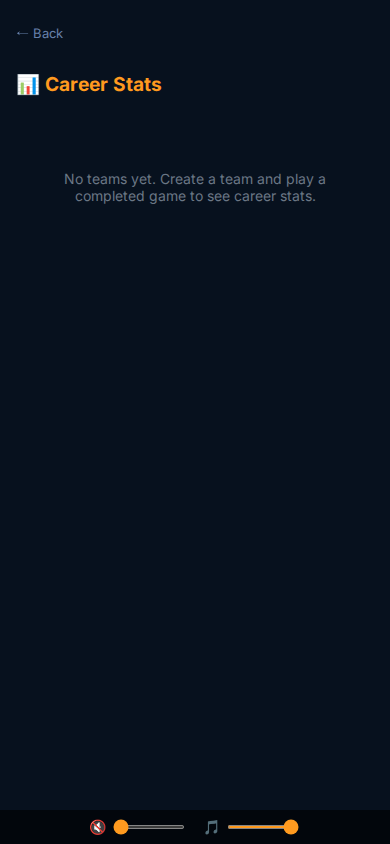
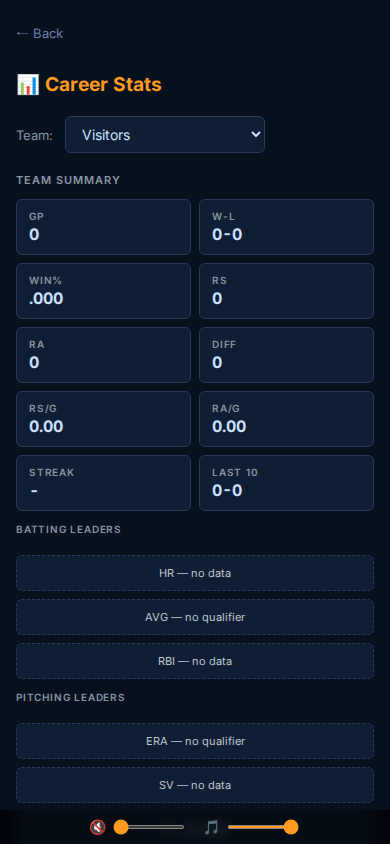
fix: show demo teams and career stats data in screenshots

diff --git a/e2e/tests/take-screenshots.spec.ts b/e2e/tests/take-screenshots.spec.ts
@@ -6,11 +6,16 @@
  * Output is written to docs/screenshots/.
  */
 
-import { type BrowserContext, devices, type Page, test } from "@playwright/test";
+import { expect, type BrowserContext, devices, type Page, test } from "@playwright/test";
 import * as fs from "fs";
 import * as path from "path";
 
-import { resetAppState, startGameViaPlayBall, waitForLogLines } from "../utils/helpers";
+import {
+  importHistoryFixture,
+  resetAppState,
+  startGameViaPlayBall,
+  waitForLogLines,
+} from "../utils/helpers";
 
 // Output directory for screenshots
 const SCREENSHOTS_DIR = path.join(process.cwd(), "docs", "screenshots");
@@ -74,6 +79,15 @@ test.describe("Documentation Screenshots", () => {
           document.head.appendChild(style);
         });
       });
+      // Mute announcement volume on every page load so the scheduler doesn't
+      // wait up to 8 s for Web Speech API announcements between pitches.
+      await ctx.addInitScript(() => {
+        try {
+          localStorage.setItem("announcementVolume", "0");
+        } catch {
+          // localStorage may be unavailable in some security contexts.
+        }
+      });
       const pg = await ctx.newPage();
       contexts.set(name, ctx);
       pages.set(name, pg);
@@ -96,6 +110,17 @@ test.describe("Documentation Screenshots", () => {
     }
   }
 
+  // Navigate to "/" without suppressing demo-team seeding so screenshots
+  // that need demo teams (New Game dialog, Manage Teams) see them populated.
+  // Audio is already muted by the context-level init script in beforeEach.
+  async function goHomeForDocs(page: Page): Promise<void> {
+    await page.goto("/", { waitUntil: "domcontentloaded" });
+    await page.waitForSelector("[data-testid='home-screen']", {
+      state: "visible",
+      timeout: 30_000,
+    });
+  }
+
   // ── 1. Home Screen ──────────────────────────────────────────────────────────
   test("1. Home screen", async () => {
     await forBothViewports(async (page, viewport) => {
@@ -111,11 +136,20 @@ test.describe("Documentation Screenshots", () => {
   // ── 2. New Game Dialog ──────────────────────────────────────────────────────
   test("2. New Game dialog", async () => {
     await forBothViewports(async (page, viewport) => {
-      await resetAppState(page);
+      // Use goHomeForDocs (no demo-seed suppression) so the team selects show
+      // the seeded Riverside Rockets / Lakewood Legends demo teams.
+      await goHomeForDocs(page);
       await page.getByTestId("home-new-game-button").click();
       await page.waitForSelector("[data-testid='exhibition-setup-page']", {
         state: "visible",
         timeout: 15_000,
+      });
+      // Wait for demo teams to seed and auto-select in the custom-team selects.
+      await page
+        .getByTestId("new-game-custom-away-team-select")
+        .waitFor({ state: "visible", timeout: 20_000 });
+      await expect(page.getByTestId("new-game-custom-away-team-select")).not.toHaveValue("", {
+        timeout: 10_000,
       });
       await captureScreenshot(page, `new-game-${viewport}.png`);
     });
@@ -164,7 +198,10 @@ test.describe("Documentation Screenshots", () => {
   // ── 6. Career Stats page ────────────────────────────────────────────────────
   test("6. Career Stats page", async () => {
     await forBothViewports(async (page, viewport) => {
-      await resetAppState(page);
+      // Start a game so the saves modal is accessible, then import the history
+      // fixture to populate leaderboards and stat tables.
+      await startGameViaPlayBall(page, { seed: "carstats" });
+      await importHistoryFixture(page, "career-stats-history.json");
       await page.goto("/stats", { waitUntil: "domcontentloaded" });
       await page.waitForSelector("[data-testid='career-stats-page']", { state: "visible" });
       await captureScreenshot(page, `career-stats-${viewport}.png`);
@@ -174,9 +211,32 @@ test.describe("Documentation Screenshots", () => {
   // ── 7a. Manage Teams page ───────────────────────────────────────────────────
   test("7a. Manage Teams page", async () => {
     await forBothViewports(async (page, viewport) => {
-      await resetAppState(page);
+      // Use goHomeForDocs (no demo-seed suppression) so the team list shows the
+      // seeded Riverside Rockets / Lakewood Legends demo teams.
+      await goHomeForDocs(page);
       await page.goto("/teams", { waitUntil: "domcontentloaded" });
       await page.waitForSelector("[data-testid='manage-teams-screen']", { state: "visible" });
+      // Wait for demo teams to finish seeding and appear in the list.
+      // useCustomTeams fetches once on mount — if seeding hasn't completed yet
+      // when the initial DB query runs, the list will appear empty.  In that
+      // case, wait briefly for seeding to finish and reload so the hook
+      // re-runs its fetch with the freshly-inserted teams.
+      // NOTE: The correct testid is "custom-team-list-item" (see TeamListItem.tsx).
+      const teamItemLocator = page.locator("[data-testid='custom-team-list-item']");
+      const found = await teamItemLocator
+        .first()
+        .waitFor({ state: "visible", timeout: 8_000 })
+        .then(() => true)
+        .catch(() => false);
+      if (!found) {
+        // Seeding was still in flight — reload to re-trigger the DB fetch.
+        await page.reload({ waitUntil: "domcontentloaded" });
+        await page.waitForSelector("[data-testid='manage-teams-screen']", { state: "visible" });
+        await page.waitForSelector("[data-testid='custom-team-list-item']", {
+          state: "visible",
+          timeout: 15_000,
+        });
+      }
       await captureScreenshot(page, `manage-teams-${viewport}.png`);
     });
   });
